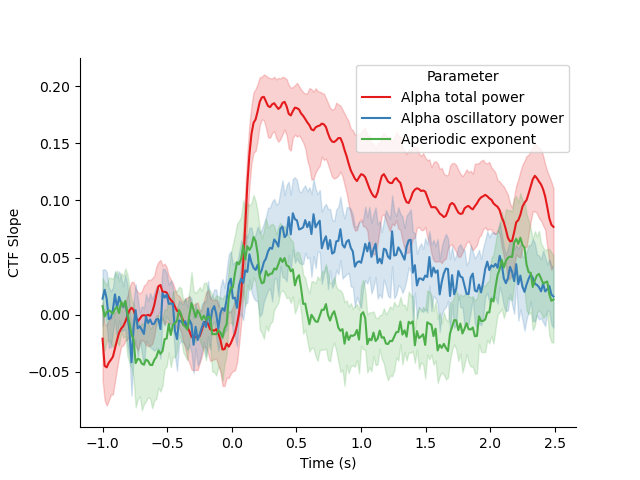
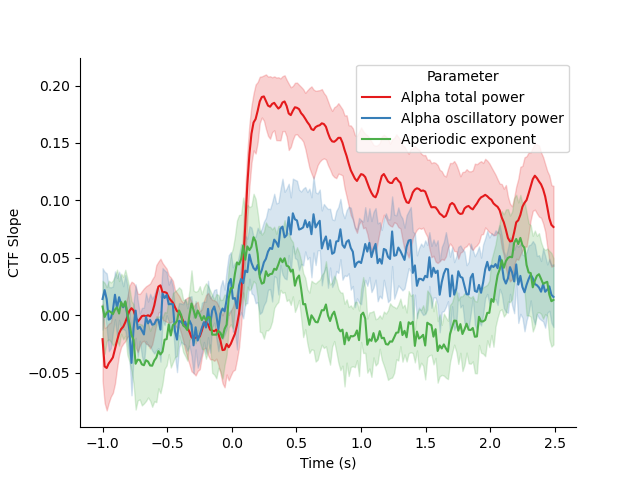
Fix file name issues with thresholding

diff --git a/code/spec_param_iem.py b/code/spec_param_iem.py
@@ -14,11 +14,11 @@ if __name__ == '__main__':
 
     # Decode spatial location from alpha oscillatory power
     pw_channel_offsets, pw_ctf_slopes, t_arr = train_and_test_all_subjs(
-        'PW', threshold_param='R^2', threshold_val=0.5)
+        'PW')
 
     # Decode spatial location from aperiodic exponent
     exp_channel_offsets, exp_ctf_slopes, _ = train_and_test_all_subjs(
-        'exponent', threshold_param='R^2', threshold_val=0.5)
+        'exponent')
 
     # Decimate total alpha power IEM results
     if tot_pw_ctf_slopes.shape[-1] > pw_ctf_slopes.shape[-1]:
@@ -26,7 +26,8 @@ if __name__ == '__main__':
 
     # Plot CTF slope time courses for parameters from spectral parameterization
     # model
-    ctf_slopes_fname = os.path.join(params.FIG_DIR, 'ctf_slopes')
+
+    ctf_slopes_fname = os.path.join(params.FIG_DIR, 'ctf_slopes.png')
     ctf_slopes = {
         'Alpha total power': -tot_pw_ctf_slopes,
         'Alpha oscillatory power': -pw_ctf_slopes,

diff --git a/code/train_and_test_iem.py b/code/train_and_test_iem.py
@@ -274,7 +274,10 @@ def train_and_test_all_subjs(
     mean_ctf_slopes = np.array(mean_ctf_slopes)
 
     # Plot channel offset across subjects
-    fig_fname = os.path.join(fig_dir, param, 'channel_offset_all')
+    fig_dir = os.path.join(fig_dir, param)
+    if threshold_param is not None and threshold_val is not None:
+        fig_dir = os.path.join(fig_dir, f'{threshold_param}>{threshold_val}')
+    fig_fname = os.path.join(fig_dir, 'channel_offset_all')
     plot_channel_offset(
         mean_channel_offset_all_subjs, t_arr, save_fname=fig_fname)
     return mean_channel_offsets, mean_ctf_slopes, t_arr
